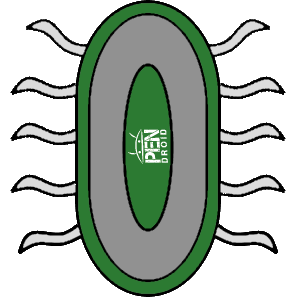
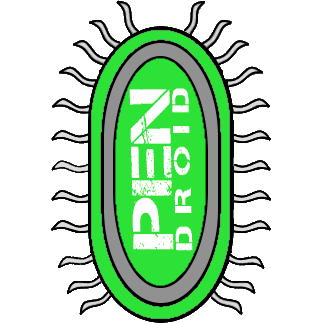
buborék addolva, finomitani kell rajta...ennyi tellet

diff --git a/core/src/hu/csanysoft/donto/Global/Assets.java b/core/src/hu/csanysoft/donto/Global/Assets.java
@@ -73,6 +73,9 @@ public class Assets {
     public static final AssetDescriptor<Texture> CHIPWEAPON_TEXTURE
             = new AssetDescriptor<Texture>("chips/weapon.png", Texture.class);
 
+    //Buborék atlasz
+    public static final AssetDescriptor<TextureAtlas> BUBBLE_ATLAS
+            = new AssetDescriptor<TextureAtlas>("animations/bubbles/bubbleani.atlas", TextureAtlas.class);
 
     public static final AssetDescriptor<TextureAtlas> ROBOT_ATLAS
             = new AssetDescriptor<TextureAtlas>("animations/android.atlas", TextureAtlas.class);
@@ -116,6 +119,8 @@ public class Assets {
         manager.load(CHIPSPEED_TEXTURE);
         manager.load(CHIPSHIELD_TEXTURE);
         manager.load(CHIPWEAPON_TEXTURE);
+        //buborék
+        manager.load(BUBBLE_ATLAS);
 
         manager.load(ROBOT_ATLAS);
         manager.load(BACKGROUND_TEXTURE);

diff --git a/core/src/hu/csanysoft/donto/Actors/Robot.java b/core/src/hu/csanysoft/donto/Actors/Robot.java
@@ -24,7 +24,7 @@ public class Robot extends MultiSpriteActor {
         super(width, height);
         body = new AnimatedOffsetSprite(Assets.manager.get(Assets.ROBOT_ATLAS), 0, 0, 50, 75);
         addSprite(body);
-        trail = new AnimatedOffsetSprite(Assets.manager.get(Assets.EXPLOSION_ATLAS), 10, -60, 30, 80);
+        trail = new AnimatedOffsetSprite(Assets.manager.get(Assets.BUBBLE_ATLAS), 10, -60, 30, 80);
         addSprite(trail);
         shieldSprite = new OffsetSprite(Assets.manager.get(Assets.EXIT), -25,-20,100,100);
         addSprite(shieldSprite);
